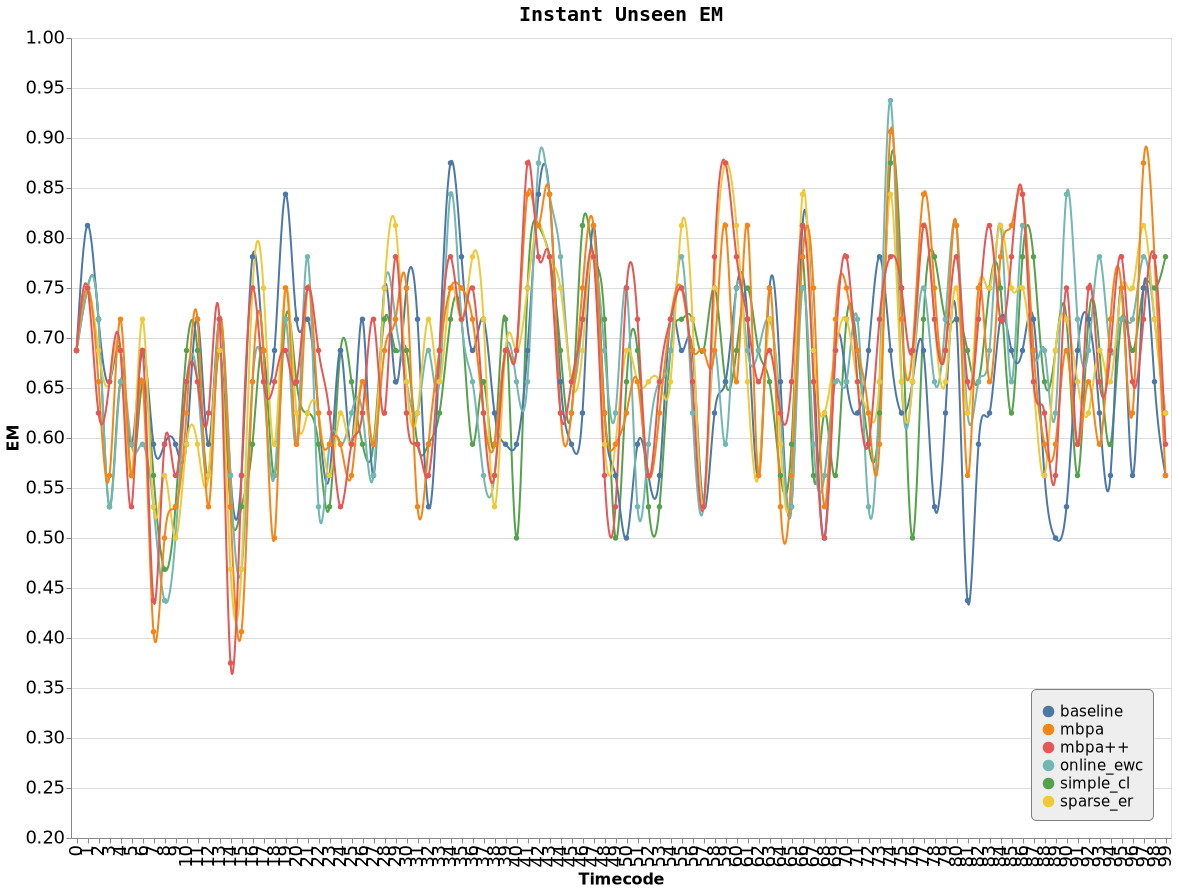
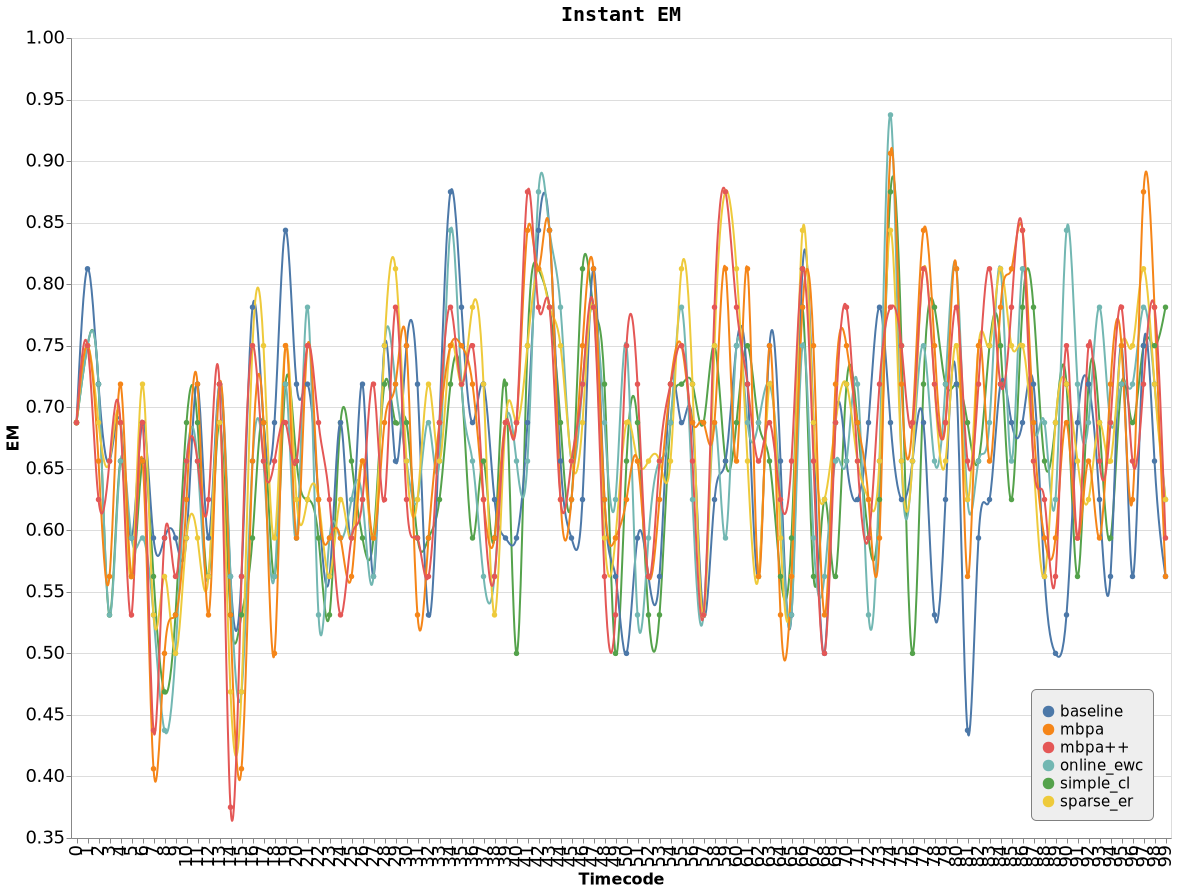
curves and visualization

diff --git a/semanticdebugger/debug_algs/show_dynamic_stream_curve.py b/semanticdebugger/debug_algs/show_dynamic_stream_curve.py
@@ -81,7 +81,7 @@ def get_all_data(path, prefix, add_baselines=False):
  
 
 
-def draw_curve(df, y_scale=[0, 1], fig_title="", y_title="EM", y_key="em:Q", height=800):
+def draw_curve(df, y_scale=[0, 1], fig_title="", y_title="EM", y_key="em:Q", height=800, width=1100):
     x = alt.X("timecode", type="ordinal", title="Timecode")
     # y_em = alt.Y("em", type="quantitative", title="EM", scale=alt.Scale(domain=[0.5, 1.0]))
     # em_line = alt.Chart(df).mark_line(interpolate='natural', point=True).encode(x=x, y=y_em, opacity=alt.value(0.8), color=alt.value('red'))
@@ -101,7 +101,7 @@ def draw_curve(df, y_scale=[0, 1], fig_title="", y_title="EM", y_key="em:Q", hei
     fig = alt.Chart(df).mark_line(opacity=1, interpolate="natural", point=True).encode(x=x, y=alt.Y(y_key, stack=None, title=y_title, scale=alt.Scale(domain=y_scale)), color=color).properties(title=fig_title)
 
     fig = alt.layer(fig).resolve_scale()
-    fig = fig.properties(width=1100, height=height).configure_axis(
+    fig = fig.properties(width=width, height=height).configure_axis(
         labelFontSize=18,
         titleFontSize=16, 
     ).configure_legend(titleFontSize=0, labelFontSize=15, orient='bottom-right', strokeColor='gray',
@@ -137,12 +137,11 @@ methods = ["cl_simple", "baseline", "online_ewc", "sparse_er", "mbpa", "mbpa++"]
 
 
 # instant_em_df = all_data_df[all_data_df['instant_unseen_EM'].notna()][all_data_df["method"].isin(methods)]
-draw_curve(all_data_df, fig_title="Instant Unseen EM", y_scale=[0.2, 1],  y_key="instant_unseen_EM:Q").save('figures/dynamic_instant_unseen_EM.png')
+draw_curve(all_data_df, fig_title="Instant EM", y_scale=[0.35, 1],  y_key="instant_unseen_EM:Q").save('figures/dynamic_instant_unseen_EM.png', width=3000)
 
-draw_curve(all_data_df, fig_title="Instant Unseen EM (delta)", y_scale=[-0.5, 0.5],  y_key="instant_unseen_EM_delta:Q").save('figures/dynamic_instant_unseen_EM_delta.png')
+# draw_curve(all_data_df, fig_title="Instant EM (delta)", y_scale=[-0.5, 0.5],  y_key="instant_unseen_EM_delta:Q").save('figures/dynamic_instant_unseen_EM_delta.png')
 
-
-draw_curve(all_data_df, fig_title="Instant Unseen EM (MA)", y_scale=[0.5, 0.8],  y_key="instant_unseen_EM_MA:Q").save('figures/dynamic_instant_unseen_EM_MA.png')
+draw_curve(all_data_df, fig_title="Instant EM (MA)", y_scale=[0.55, 0.8],  y_key="instant_unseen_EM_MA:Q").save('figures/dynamic_instant_unseen_EM_MA.png', width=3000)
 
 draw_curve(all_data_df, fig_title="Instant Seen EM (MA)", y_scale=[0.5, 1],  y_key="instant_seen_EM_MA:Q").save('figures/dynamic_instant_seen_EM_MA.png')
 

diff --git a/semanticdebugger/benchmark_gen/sample_stream_data.py b/semanticdebugger/benchmark_gen/sample_stream_data.py
@@ -53,13 +53,19 @@ def get_data_stream_with_replacement(data_pool, batch_size, num_batches):
     random.shuffle(data_pool)
     data_stream = []
     seen_ids = set()
+    duplicate_ids = set()
     num_repetition = 0
+    num_revisited_times = 0
     for _ in range(0, num_batches):
         data_batch = random.sample(data_pool, batch_size)
         data_stream.append(data_batch)
         num_repetition += len([_ for item in data_batch if item["id"] in seen_ids])
+        revisited_ids = [item["id"] for item in data_batch if item["id"] in seen_ids]
+        num_revisited_times += len(revisited_ids)
+        duplicate_ids.update(revisited_ids)
         seen_ids.update([item["id"] for item in data_batch])
-    print(f"num_repetition: {num_repetition}; num_total_examples: {len(seen_ids)}; length: {batch_size * num_batches}; ratio: {num_repetition/(batch_size * num_batches)}")
+    print(f"num_repetition: {num_repetition}; num_total_examples: {len(seen_ids)}; length: {batch_size * num_batches}; ratio: {num_repetition/(batch_size * num_batches)}; num_duplicate_ids: {len(duplicate_ids)}; num_revisited_times: {num_revisited_times}")
+
     return data_stream
 
 
